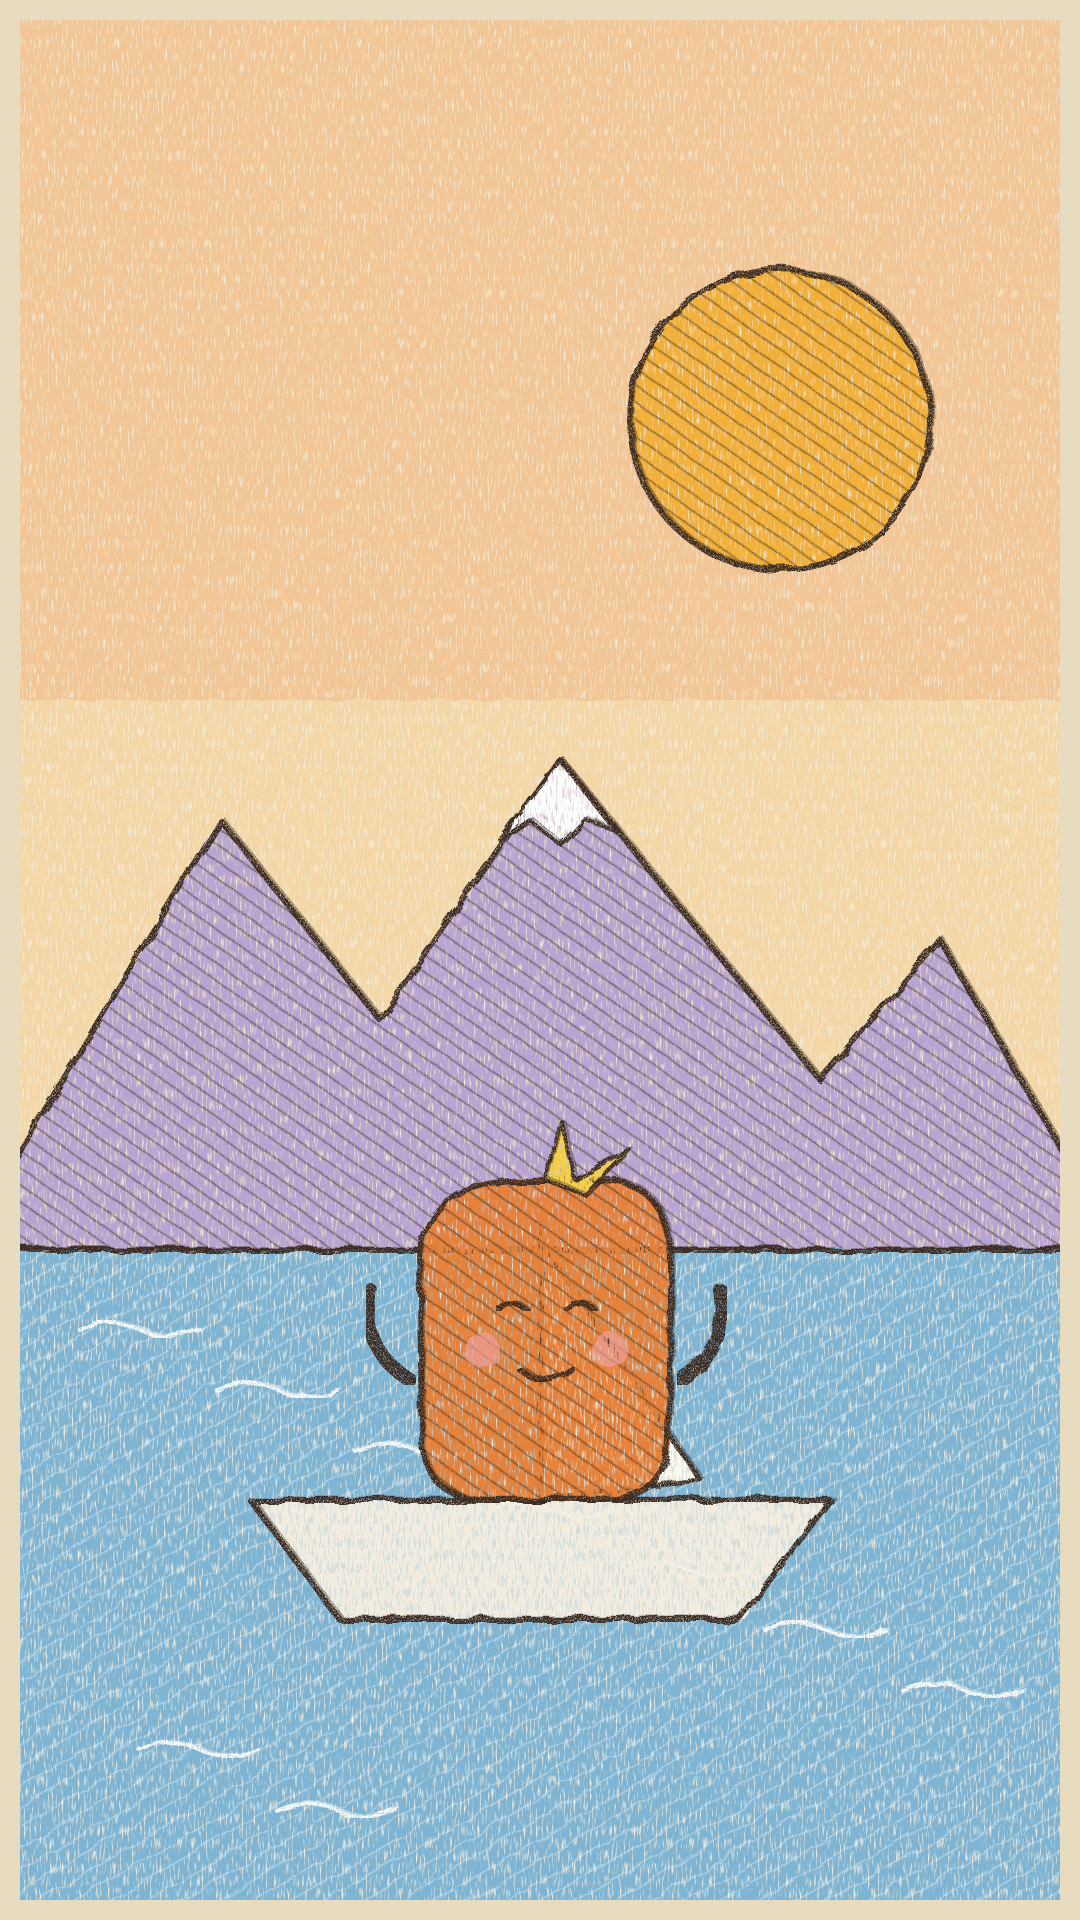
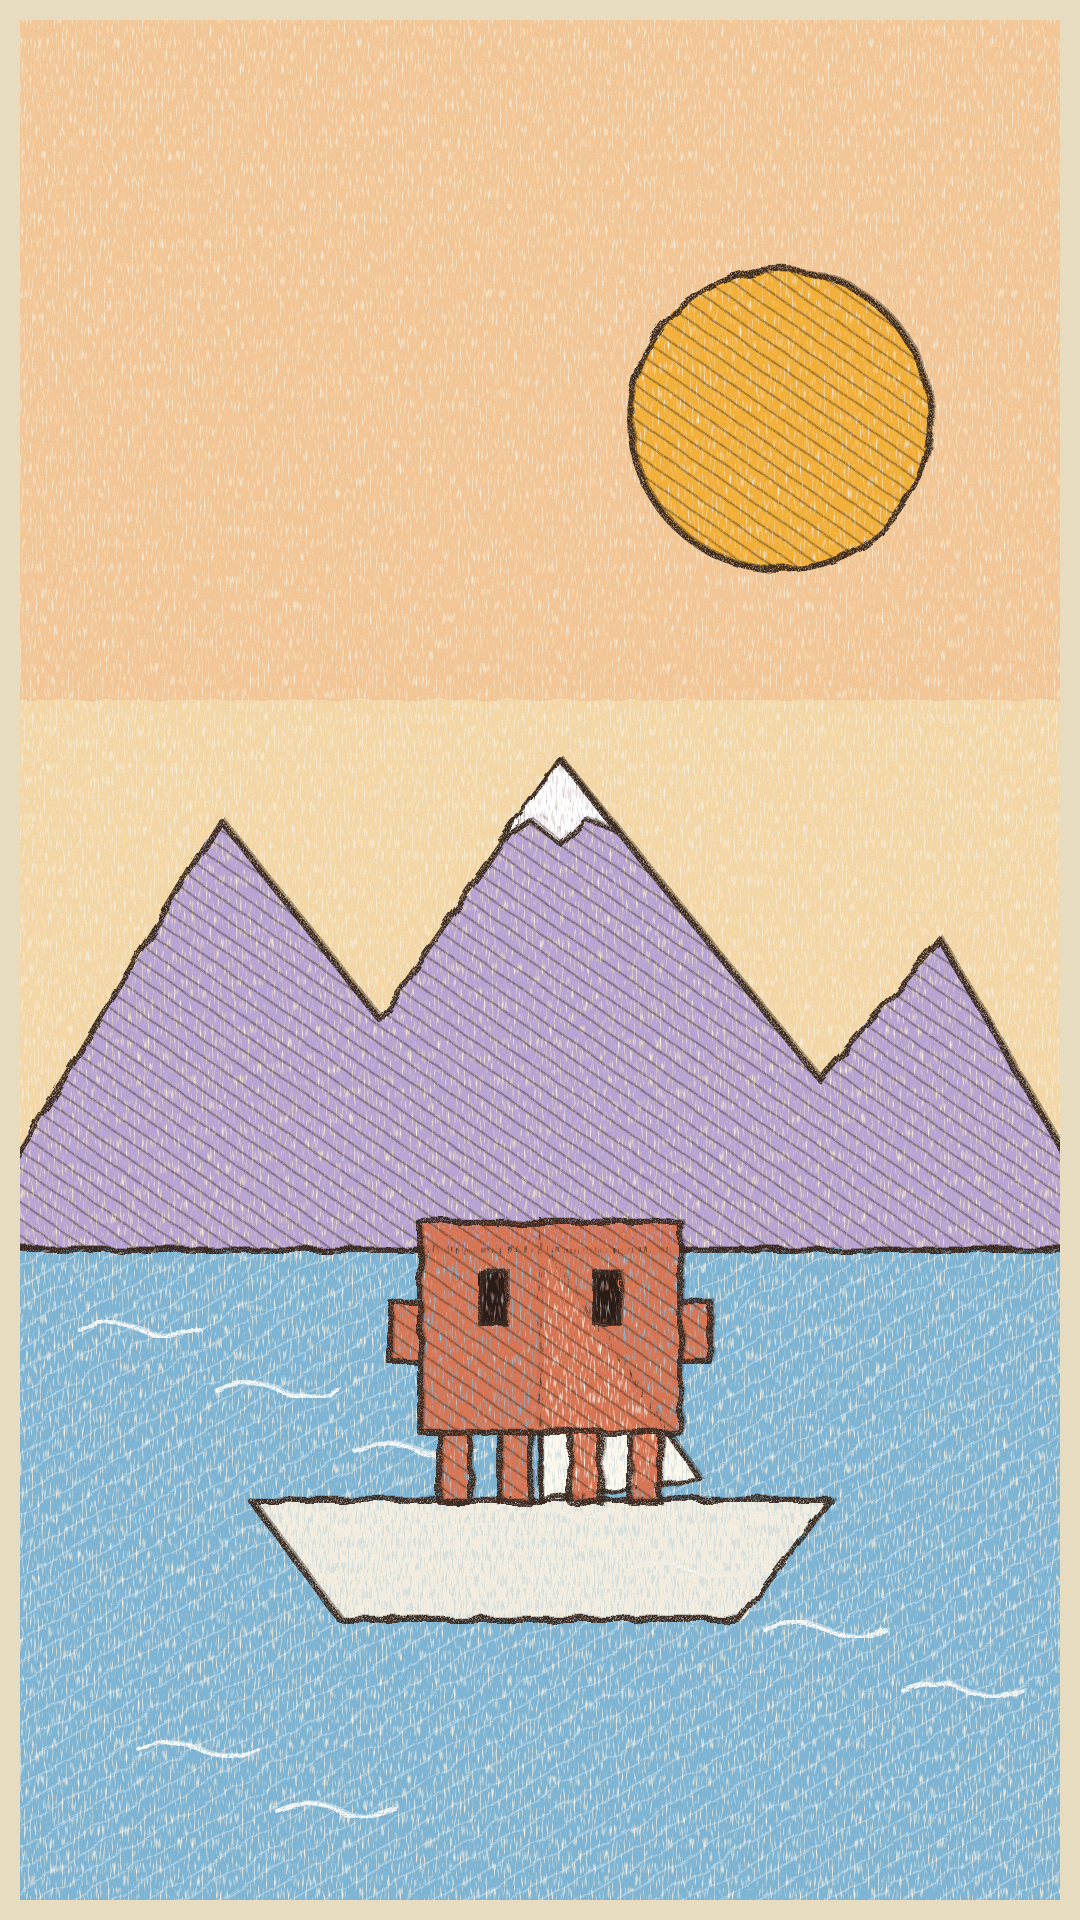
Карандашный тест: пиксельный талисман
Claude-Session: https://claude.ai/code/session_01XtS4qQPH5BcgbGbJXwSi4A

Changed region(s): [[0.3361, 0.5938, 0.6722, 0.7812]]

diff --git a/en/pencil-test.html b/en/pencil-test.html
@@ -51,12 +51,11 @@ for (let i = 0; i < 9; i++) s += line(`M${80 + (i * 137) % 900} ${1330 + i * 60}
 // лодочка из бумаги
 s += both("M250 1500 L830 1500 L740 1620 L340 1620Z", "#f4efe2", 6) + both("M540 1500 L540 1240 L700 1480Z", "#fffaf0", 5) + line("M540 1500 V1220", 6);
 // персонаж — оранжевый кубик
-s += `<g id="hero">${both("M420 1290 Q410 1180 520 1180 L600 1180 Q680 1180 670 1290 L668 1440 Q666 1500 600 1500 L490 1500 Q424 1500 422 1440Z", "#e8833a", 6)}
-  <path d="M420 1290 Q410 1180 520 1180 L600 1180 Q680 1180 670 1290 L668 1440 Q666 1500 600 1500 L490 1500 Q424 1500 422 1440Z" fill="url(#hatch)" filter="url(#pencil)"/>
-  ${line("M498 1310 q14 -16 28 0", 6)}${line("M566 1310 q14 -16 28 0", 6)}${line("M520 1370 q26 22 52 0", 6)}
-  ${fill(circ(482, 1350, 18), "#f2a0a0", 'opacity=".7"')}${fill(circ(610, 1350, 18), "#f2a0a0", 'opacity=".7"')}
-  ${both("M410 1380 q-50 -30 -40 -90", "none", 14)}${both("M680 1380 q50 -30 40 -90", "none", 14)}
-  ${both("M545 1180 L560 1120 L575 1180 L630 1150 L585 1195Z", "#f6d24a", 4)}</g>`;
+// персонаж — пиксельный оранжевый талисман терминала (кубик, глаза-прямоугольники, лапки)
+const px = (x, y, w, h) => `M${x} ${y} h${w} v${h} h${-w}Z`;
+const BODY = [px(420, 1180, 260, 210), px(390, 1260, 30, 60), px(680, 1260, 30, 60), px(440, 1390, 30, 70), px(500, 1390, 30, 70), px(570, 1390, 30, 70), px(630, 1390, 30, 70)].join(" ");
+s += `<g id="hero" transform="translate(0 42)">${both(BODY, "#d97757", 6)}<path d="${BODY}" fill="url(#hatch)" filter="url(#pencil)"/>
+  ${both(px(480, 1230, 26, 52), "#2a1a14", 4)}${both(px(594, 1230, 26, 52), "#2a1a14", 4)}</g>`;
 // бумага поверх всего
 s += `<rect width="${W}" height="${H}" fill="#f3ead6" filter="url(#paper)" opacity=".18" style="mix-blend-mode:multiply"/>`;
 s += `<rect width="${W}" height="${H}" fill="none" stroke="#e8dcc0" stroke-width="40"/>`;
